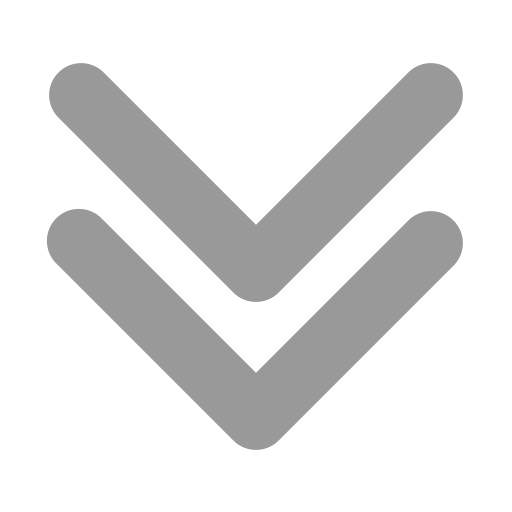
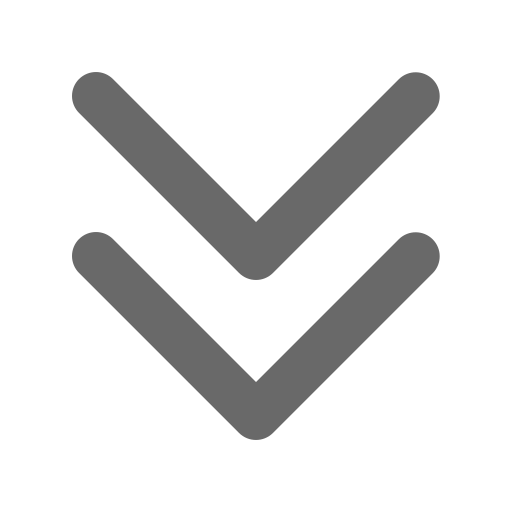
[fix/#152]:등장 애니메이션 효과 적용

Changed region(s): [[0.0938, 0.4062, 0.9062, 0.875], [0.0938, 0.125, 0.9062, 0.5938]]

diff --git a/app/landing/page.module.css b/app/landing/page.module.css
@@ -1,6 +1,6 @@
 @font-face {
-    font-family: 'GoryeongStrawberry';
-    src: url('https://fastly.jsdelivr.net/gh/projectnoonnu/noonfonts_2304-01@1.0/GoryeongStrawberry.woff2') format('woff2');
+    font-family: 'yg-jalnan';
+    src: url('https://fastly.jsdelivr.net/gh/projectnoonnu/noonfonts_four@1.2/JalnanOTF00.woff') format('woff');
     font-weight: normal;
     font-style: normal;
 }
@@ -14,18 +14,26 @@
 
 .landing_wrap {
     position: relative;
+    width: 100%;
+    height: 100%;
     top: 0;
-    background: linear-gradient(to bottom, #F9F9FF 10%, #e7dcfd 50%, #d0d4ff 100%);
-    height: 95vh;
 }
 
-
 /* 인트로 섹션 */
+.intro {
+    position: relative;
+    top: 0;
+    left: 0;
+    height: 95vh;
+    padding: 0px 90px;
+    background: linear-gradient(to bottom, #F9F9FF 10%, #e7dcfd 50%, #d0d4ff 100%);
+}
+
 .intro_section {
-    height: 100%;
     display: flex;
     justify-content: space-around;
     align-items: center;
+    padding: 20px 0px;
 }
 
 .timer_icon_wrap {
@@ -51,26 +59,25 @@
     }
 }
 
-.intro{
-    height: 85%;
-}
-
 .intro_text_wrap {
-    padding: 0px 100px;
+    padding: 0px 80px;
     display: flex;
     flex-direction: column;
     justify-content: center;
 }
 
 .intro_text {
-    font: 80px 'GoryeongStrawberry';
+    font: 90px 'yg-jalnan';
+    color: rgb(68, 68, 68);
 }
 
 .intro_text_detail {
     font-family: 'SUIT-Regular';
+    color: rgb(68, 68, 68);
 }
 
 .intro_btn {
+    font-weight: bold;
     background-color: white;
     padding: 10px 20px;
     margin-top: 20px;
@@ -86,61 +93,113 @@
     color: white;
 }
 
-.intro_arrow_wrap{
-   width: 100%;
-   display:flex;
-   justify-content: center;
+.intro_arrow_wrap {
+    position: absolute;
+    bottom: 100px;
+    left: 50%;
+    transform: translateX(-50%);
 }
 
-.arrow{
-    width: 30px;
-    height: auto;
+.arrow {
+    width: 50px;
     animation: blink 1.5s infinite ease-in-out;
 }
 
 @keyframes blink {
     0% {
         opacity: 1;
+        transform: translateY(0);
     }
 
     50% {
-        opacity: 0.2;
+        opacity: 0.4;
+        transform: translateY(10px);
     }
 
     100% {
         opacity: 1;
+        transform: translateY(0);
     }
 }
 
-/* 소개섹션 */
+/* 부가설명 */
 
-.timer_detail {
+.add_explane {
     width: 100%;
+    background-color: #fdfdfd;
+    text-align: center;
+    padding: 200px 0px;
+}
+
+.add_explane_text {
+    line-height: 55px;
+    font-weight: 500;
+}
+
+/* 타이머소개섹션 */
+
+.timer {
+    background-color: #fff;
+}
+
+/* animation 설정*/
+.timer_detail_wrap,
+.timer_title,
+.timer_img_wrap {
+    animation: 1.5s ease 0s 1 normal forwards running up;
+    animation-timeline: view();
+    opacity: 1;
+}
+
+@keyframes up {
+    0% {
+        opacity: 0;
+        transform: translate3d(0px, 10%, 0px);
+    }
+
+    70% {
+        opacity: 1;
+        transform: translateZ(0px);
+    }
+}
+
+
+.timer_detail_wrap {
+    padding: 0px 0px 50px 0px;
+    text-align: center;
+}
+
+.timer_title {
+    font-weight: bold;
+    display: flex;
+    align-items: center;
+    justify-content: center;
+}
+
+.timer_title_icon {
+    width: 30px;
+    padding-right: 10px;
 }
 
 .timer_img_wrap {
-    position: relative;
-    padding: 30px 0px;
-    width: 100%;
+    padding: 0px 0px 150px 0px;
 }
 
 .timer_img_desktop,
 .timer_img_mobile {
-    position: absolute;
+    position: relative;
     width: 50%;
-    height: auto;
     border-radius: 20px;
     box-shadow: 0 5px 10px rgba(0, 0, 0, 0.3);
 }
 
 .timer_img_desktop {
-    top: 50%;
     left: 50%;
-    transform: translateX(-50%);
+    transform: translate(-50%, 0%);
 }
 
 .timer_img_mobile {
     width: 17%;
-    right: 15%;
-    transform: translate(-10%, 20%);
+    left: 20%;
+    transform: translate(-30%, 20%);
 }

diff --git a/app/landing/page.tsx b/app/landing/page.tsx
@@ -1,10 +1,11 @@
-'use client'
 import { Box, Text } from '@radix-ui/themes';
 import styles from './page.module.css';
 
 export default function Landing() {
+
+
   return (
-    <Box px="9" className={styles.landing_wrap}>
+    <Box className={styles.landing_wrap}>
       <section className={styles.intro}>
         <div className={styles.intro_section}>
           <div className={styles.timer_icon_wrap}>
@@ -42,8 +43,27 @@ export default function Landing() {
           <img src="/imgs/landing/arrow.png" alt="스크롤 유도 아이콘" className={styles.arrow} />
         </div>
       </section>
+      <section className={styles.add_explane}>
+        <Text size="8" className={styles.add_explane_text}>
+          시간 측정부터 과목 선택, 랭킹 확인까지 한 번에! <br />
+          교육생의 학습 시간을 체계적으로 관리할 수 있는 서비스, <br />
+          우행시와 함께라면 성장을 눈으로 확인할 수 있습니다.
+        </Text>
+      </section>
       {/* 타이머 소개 섹션 */}
-      <section className={styles.timer_detail}>
+      <section  className={styles.timer}>
+        <div className={styles.timer_detail_wrap}>
+          <Text size="8" className={styles.timer_title}>
+            <img src="/imgs/landing/clock.png" alt="타이머소개아이콘" className={styles.timer_title_icon} />
+            공부시작
+            <br />
+          </Text>
+          <Text size="5" className={styles.timer_detail}>
+            <br />
+            내가 선택한 과목으로 공부 시간을 실시간으로 측정할 수 있어요. <br />
+            언제 어디서든 공부를 시작하고 시간을 기록해보세요.
+          </Text>
+        </div>
         <div className={styles.timer_img_wrap}>
           <img
             src="/imgs/landing/landing_timer_desktop.png"
@@ -57,7 +77,6 @@ export default function Landing() {
           />
         </div>
       </section>
-      <section>3</section>
     </Box>
   );
 }
